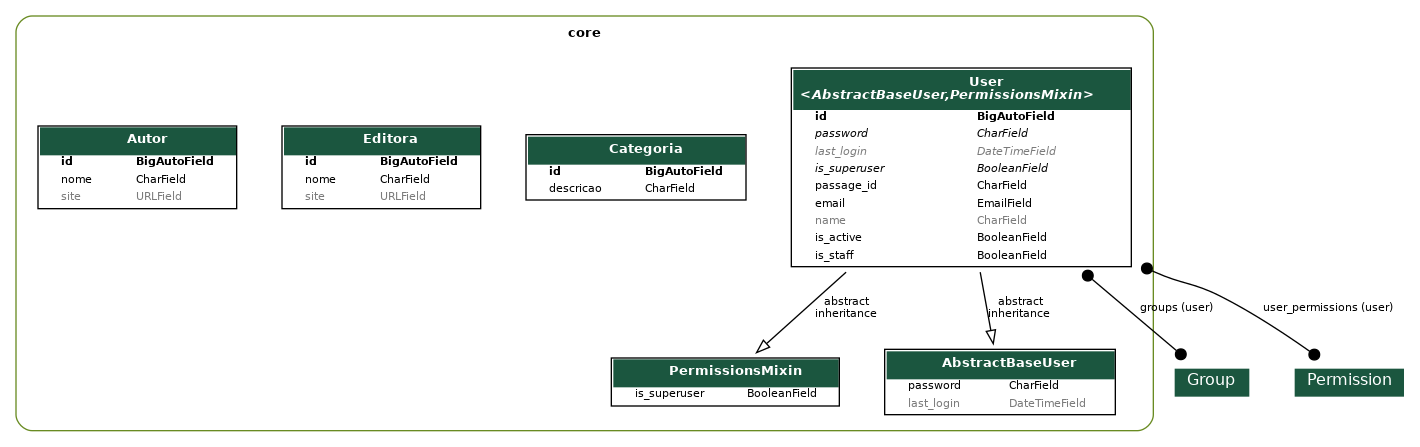
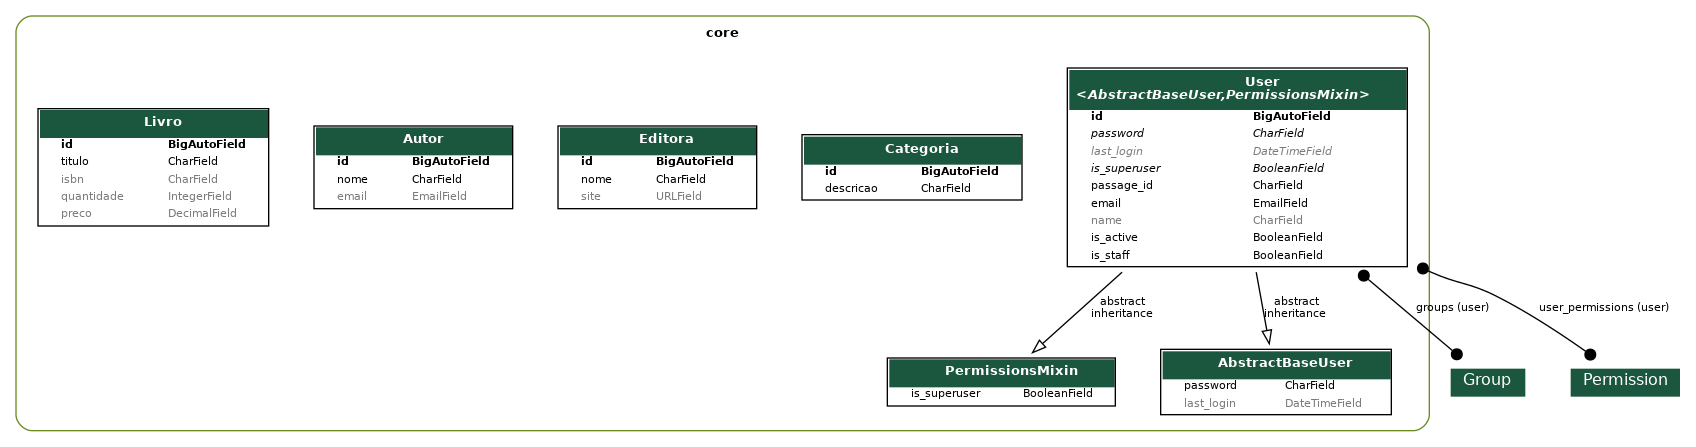
feat: criação da entidade para Livro

diff --git a/core/migrations/0008_livro_remove_autor_site_autor_email.py b/core/migrations/0008_livro_remove_autor_site_autor_email.py
@@ -1,0 +1,32 @@
+# Generated by Django 5.1.7 on 2025-08-29 17:24
+
+from django.db import migrations, models
+
+
+class Migration(migrations.Migration):
+
+    dependencies = [
+        ('core', '0007_autor'),
+    ]
+
+    operations = [
+        migrations.CreateModel(
+            name='Livro',
+            fields=[
+                ('id', models.BigAutoField(auto_created=True, primary_key=True, serialize=False, verbose_name='ID')),
+                ('titulo', models.CharField(max_length=255)),
+                ('isbn', models.CharField(blank=True, max_length=32, null=True)),
+                ('quantidade', models.IntegerField(blank=True, default=0, null=True)),
+                ('preco', models.DecimalField(blank=True, decimal_places=2, default=0, max_digits=7, null=True)),
+            ],
+        ),
+        migrations.RemoveField(
+            model_name='autor',
+            name='site',
+        ),
+        migrations.AddField(
+            model_name='autor',
+            name='email',
+            field=models.EmailField(blank=True, max_length=100, null=True),
+        ),
+    ]
